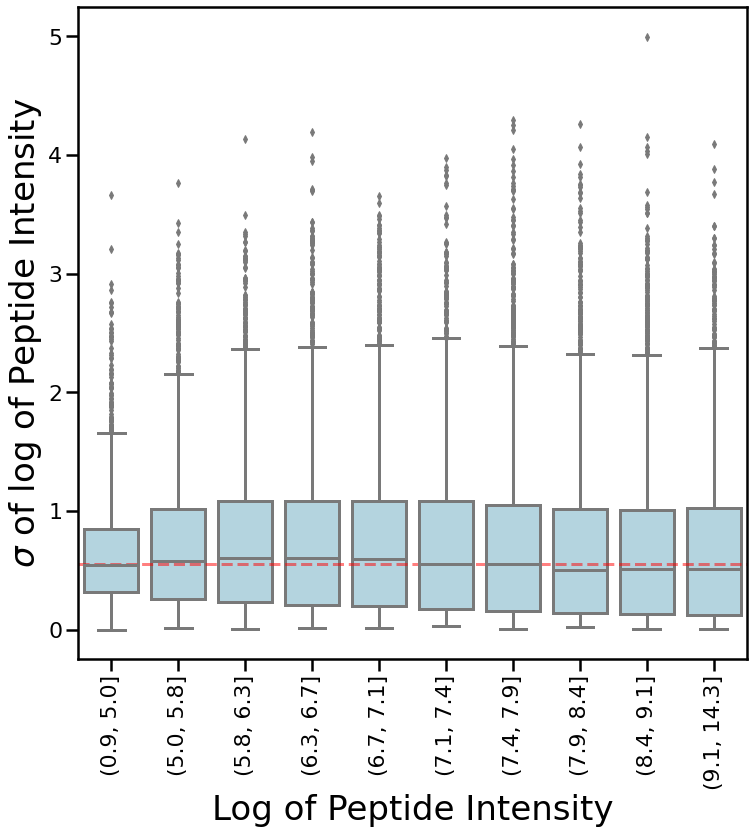
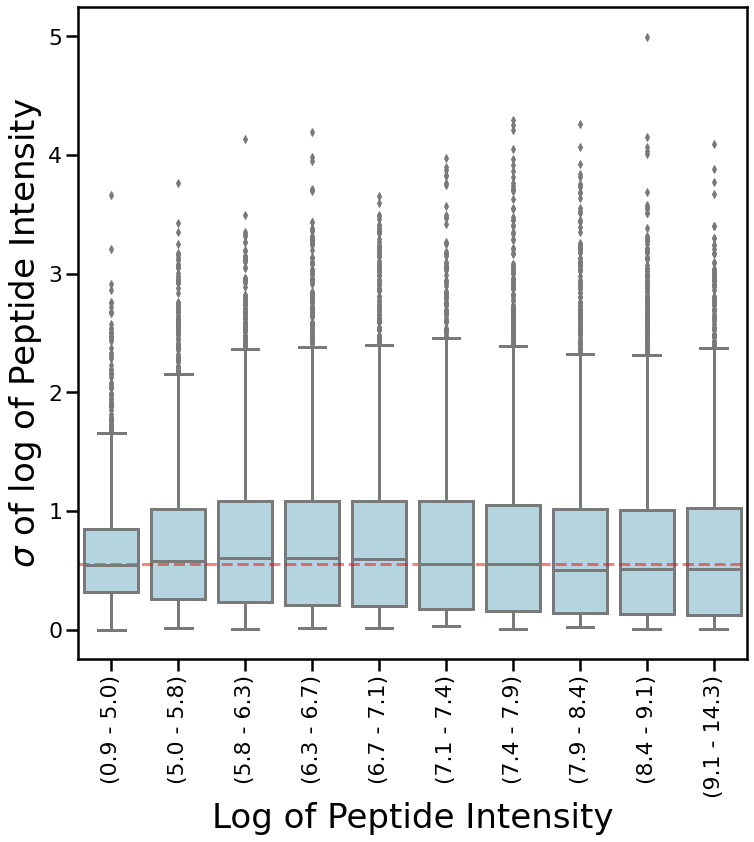
docs

diff --git a/doc/benchmark/supplement.tex b/doc/benchmark/supplement.tex
@@ -43,7 +43,24 @@
 \section*{Note S1: Supplementary figures and tables}
 \label{sec:fc-eval}
 
-\todo{Arrange Figures in the order they are referenced in text.}
+
+\begin{table}[hbt]
+\centering
+\begin{tabular}{llll}
+\hline
+        & Unfiltered & no\_shared & no\_shared\_IL\_equivalence \\ \hline
+All     & 31 055     & 30 456     & 30 452                      \\
+E. Coli & 4 391      & 4 306      & 4 306                       \\
+Human   & 20 614     & 20 302     & 20 299                      \\
+Yeast   & 6 050      & 5 848      & 5 847                       \\ \hline
+\end{tabular}
+
+  \caption{{\bf Protein count in the Uniprot FASTA protein database.} The database is a FASTA file with one protein sequence per gene for each species (UP000005640, UP000000625 and UP000002311. Acquired on 2021-06-16). The "no\_shared" filter is applied by splitting the protein sequences at amino acids "K" and "R" and keeping all the sequences with length $>$ 7 for each protein. We then mapped each sequence to all possible protein matchings and counted the how many proteins each split sequence was mapped to, and filtered so that each sequence only kept one protein match. Therefore, creating a database library with only one peptide sequence per protein. For the "no\_shared\_IL\_equivalence" all I are replaced by L before performing the filtering. \label{table:proteins_in_database}}
+
+\end{table}
+
+
+
 \begin{table}[h]
     \begin{tabular}{lllllll}
     \hline
@@ -72,23 +89,6 @@
 \end{table}
 
 
-
-
-\begin{figure}[hbt]
-    \centering
-    \begin{tabular}{lclc} 
-        A & \includegraphics[width=0.4\linewidth]{../../result/report_plots_pipeline/diff_HeLa_vs_nonHeLa_ID_ecoli_0.51.png} & 
-        D & \includegraphics[width=0.4\linewidth]{../../result/report_plots_pipeline/diff_HeLa_vs_nonHeLa_PS_ecoli_0.51.png} \\ 
-        B & \includegraphics[width=0.4\linewidth]{../../result/report_plots_pipeline/diff_HeLa_vs_nonHeLa_ID_yeast_0.51.png} & 
-        E & \includegraphics[width=0.4\linewidth]{../../result/report_plots_pipeline/diff_HeLa_vs_nonHeLa_PS_yeast_0.51.png} \\
-        C & \includegraphics[width=0.45\linewidth]{../../result/report_plots_pipeline/diff_HeLa_vs_nonHeLa_ID_all_0.51.png} & 
-        F & \includegraphics[width=0.45\linewidth]{../../result/report_plots_pipeline/diff_HeLa_vs_nonHeLa_PS_yeast_0.51.png} \\ 
-
-    \end{tabular}
-    \caption{{\bf The compared methods ability to differentiate differentially abundant proteins.} We plotted the number of reported differentially abundant  {\em E. Coli} and Yeast proteins as a function of number of proteins from the HeLa background when sorting according to significance for (A) ID pipeline and (B) PS pipeline. For the test we selected a fold-change evaluation of 0.51 for Triqler and fold-change treshold of 0.51 for Top3, MSstats and MSqRob2. All methods have an protein-level FDR threshold of 0.01. \label{fig:ability_to_differentiate_differentially_abundant_specie_vs_hela}}
-\end{figure}
-
-
 \begin{figure}[hbt]
     \centering
     \centering
@@ -97,33 +97,16 @@
         B & \includegraphics[width=0.4\linewidth]{../../result/report_plots_pipeline/quantile_bins_PS_median.png} \\
     \end{tabular}
   \caption{{\bf Standard deviation of peptide abundance as a function of mean abundance in DIA experiments.} We performed quantile binning with 10 bins using pandas qcut function and plotted the standard deviation across samples as a function of the mean of every peptide intensity in the TripleTOF6600 section of the LFQ Bench set. The bins are constructed so that each bin contain an equal amount of data points and the unequal bin sizes are an effect of the quantile binning procedure. The x-axis value shows the bin ranges. We used a log-log scale for abundances derived by the (A) ID pipeline and (B) PS pipeline. (A) show a slight increase in peptide intensity standard deviation as we increase the mean peptide intensity. In (B) we observe a nearly uniform offset in standard deviation across the intensity scale, demonstrating that (B) holds the Triqler assumption $\log(\sigma) \approx \log(\mu) + \log(k)$ and hence   $\sigma \approx \mu k$ very well. While (A) does not hold the assumption as well, Triqler is still used to analyse this data.  \label{fig:uniform_offset_in_standard_deviation_boxplot}}
-  \todo[inline]{Replace intervall signs with a single hyphen for x-tick markers.}
+
  \end{figure}
-
-
-\begin{table}[hbt]
-\centering
-\begin{tabular}{llll}
-\hline
-        & Unfiltered & no\_shared & no\_shared\_IL\_equivalence \\ \hline
-All     & 31 055     & 30 456     & 30 452                      \\
-E. Coli & 4 391      & 4 306      & 4 306                       \\
-Human   & 20 614     & 20 302     & 20 299                      \\
-Yeast   & 6 050      & 5 848      & 5 847                       \\ \hline
-\end{tabular}
-
-  \caption{{\bf Protein count in the Uniprot FASTA protein database.} The database is a FASTA file with one protein sequence per gene for each species (UP000005640, UP000000625 and UP000002311. Acquired on 2021-06-16). The "no\_shared" filter is applied by splitting the protein sequences at amino acids "K" and "R" and keeping all the sequences with length $>$ 7 for each protein. We then mapped each sequence to all possible protein matchings and counted the how many proteins each split sequence was mapped to, and filtered so that each sequence only kept one protein match. Therefore, creating a database library with only one peptide sequence per protein. For the "no\_shared\_IL\_equivalence" all I are replaced by L before performing the filtering. \label{table:proteins_in_database}}
-
-\end{table}
-
-
+ 
 
 \begin{figure}[hbt]
     \centering
     \centering
     \begin{tabular}{lclc} 
-        A \includegraphics[width=0.5\linewidth]{../../result/report_plots_pipeline/fraction_missing_values_ID.png} & &%\includegraphics[width=0.3\linewidth]{} & 
-        B \includegraphics[width=0.5\linewidth]{../../result/report_plots_pipeline/fraction_missing_values_PS.png} & \\%\includegraphics[width=0.3\linewidth]{} \\ 
+        A & \includegraphics[width=0.80\linewidth]{../../result/report_plots_pipeline/fraction_missing_values_ID.png} \\ %\includegraphics[width=0.3\linewidth]{} & 
+        B & \includegraphics[width=0.80\linewidth]{../../result/report_plots_pipeline/fraction_missing_values_PS.png} \\%\includegraphics[width=0.3\linewidth]{} \\ 
     \end{tabular}
     \todo[inline]{Harmonize fort sizes.}
     \caption{{\bf Comparison of actual missing values against fit to the censored normal distribution used in triqler.} We imputed the missing values as the mean of sample peptide intensities and used these imputed values to approximate the missingness for a given intensity. We binned the intensities to an arbitrary small range and plotted the fraction os missing values for each intensity range. The curve\_fit function from scipy.optimize was used to fit the values against the mentioned censored normal distribution for (A) ID pipeline  and (B) PS pipeline. \label{fig:fraction_missing_values}}
@@ -131,18 +114,16 @@ Yeast   & 6 050      & 5 848      & 5 847                       \\ \hline
     \todo[inline]{increase fontsizes for x- and y-ticks for both plots.}
 \end{figure}
 
-
 \begin{figure}[hbt]
     \centering
-    \newcolumntype{V}{>{\centering\arraybackslash} m{.4\linewidth} }
-    \setlength{\tabcolsep}{0pt}
-
-    \includegraphics[width=\linewidth]{../../result/report_plots/gridplot_histogram.png} 
-
-
-    \caption{{\bf Comparison of reported fold change distributions.} We can see that the Triqler and Top3 log2(A/B) empirical distributions have apexes that are more centered toward the true lysate values, which are indicated by the dashed lines. The apexes for Triqler have higher protein count than MSqRob2, MSstats and Top3. This shows that there are more proteins closer to the true values identified by Triqler than the other methods. \label{fig:fc_histogram_supplement}}
-    \todo[inline]{Remove legend in all but one subplot.}
-    \todo[inline]{Harmonize font sizes.}
+    \centering
+    \begin{tabular}{lclc} 
+        A & \includegraphics[width=0.5\linewidth]{../../result/report_plots_pipeline/fc_peptide_count_ID_triqler.png} &
+        B & \includegraphics[width=0.5\linewidth]{../../result/report_plots_pipeline/fc_peptide_count_PS_triqler.png} \\
+    \end{tabular}
+    \caption{{\bf Proteins with a different Triqler-estimated abundance than expected are summarized by less peptides than ones that are well estimated.} We plotted the median number of peptides per protein for    
+  We binned the peptides into regions of 0.1 ranged bins of estimated fold change and plotted them median for all bins between [-2,3], and plotted the median number of peptides as a function of bin-centers of the fold change. (A) is the ID pipeline and (B) is the PS pipeline \label{fig:number_of_peptides_supplement}}
+  \todo[inline]{Capitals in beginning of y-label}
 \end{figure}
 
 \begin{figure}[hbt]
@@ -166,6 +147,33 @@ Yeast   & 6 050      & 5 848      & 5 847                       \\ \hline
     \todo[inline]{Why are the triqler x-values different than the Top3? They should be the same.}
 \end{figure}
 
+\begin{figure}[hbt]
+    \centering
+    \begin{tabular}{lclc} 
+        A & \includegraphics[width=0.4\linewidth]{../../result/report_plots_pipeline/diff_HeLa_vs_nonHeLa_ID_ecoli_0.51.png} & 
+        D & \includegraphics[width=0.4\linewidth]{../../result/report_plots_pipeline/diff_HeLa_vs_nonHeLa_PS_ecoli_0.51.png} \\ 
+        B & \includegraphics[width=0.4\linewidth]{../../result/report_plots_pipeline/diff_HeLa_vs_nonHeLa_ID_yeast_0.51.png} & 
+        E & \includegraphics[width=0.4\linewidth]{../../result/report_plots_pipeline/diff_HeLa_vs_nonHeLa_PS_yeast_0.51.png} \\
+        C & \includegraphics[width=0.45\linewidth]{../../result/report_plots_pipeline/diff_HeLa_vs_nonHeLa_ID_all_0.51.png} & 
+        F & \includegraphics[width=0.45\linewidth]{../../result/report_plots_pipeline/diff_HeLa_vs_nonHeLa_PS_yeast_0.51.png} \\ 
+
+    \end{tabular}
+    \caption{{\bf The compared methods ability to differentiate differentially abundant proteins.} We plotted the number of reported differentially abundant  {\em E. Coli} and Yeast proteins as a function of number of proteins from the HeLa background when sorting according to significance for (A) ID pipeline and (B) PS pipeline. For the test we selected a fold-change evaluation of 0.51 for Triqler and fold-change treshold of 0.51 for Top3, MSstats and MSqRob2. All methods have an protein-level FDR threshold of 0.01. \label{fig:ability_to_differentiate_differentially_abundant_specie_vs_hela}}
+\end{figure}
+
+
+\begin{figure}[hbt]
+    \centering
+    \newcolumntype{V}{>{\centering\arraybackslash} m{.4\linewidth} }
+    \setlength{\tabcolsep}{0pt}
+
+    \includegraphics[width=\linewidth]{../../result/report_plots/gridplot_histogram.png} 
+
+
+    \caption{{\bf Comparison of reported fold change distributions.} We can see that the Triqler and Top3 log2(A/B) empirical distributions have apexes that are more centered toward the true lysate values, which are indicated by the dashed lines. The apexes for Triqler have higher protein count than MSqRob2, MSstats and Top3. This shows that there are more proteins closer to the true values identified by Triqler than the other methods. \label{fig:fc_histogram_supplement}}
+    \todo[inline]{Remove legend in all but one subplot.}
+    \todo[inline]{Harmonize font sizes.}
+\end{figure}
 
 
 \begin{figure}[hbt]
@@ -181,22 +189,9 @@ Yeast   & 6 050      & 5 848      & 5 847                       \\ \hline
         \includegraphics[width=0.5\linewidth]{../../result/report_plots_pipeline/calibration_PS_0.51.png} \\
         D 
     \end{tabular}
-  \caption{{\bf Comparison of calibration of the compared summarization methods.} We plotted the fraction of reported differentially abundant HeLa proteins as a function of $q$~value for (A,B) ID pipeline and (C,D) PS pipeline. The non-Triqler  estimated proteins abundances were both (A,C) not subject for fold change thresholds and (B,D) subject of a 0.51 fold change threshold. \label{fig:frac_hela_vs_fdr}}
+  \caption{{\bf Comparison of calibration of the compared summarization methods.} We plotted the fraction of reported differentially abundant HeLa proteins as a function of $q$~value for (A,B) ID pipeline and (C,D) PS pipeline. The non-Triqler  estimated proteins abundances were both (A,C) not subject for fold change thresholds and (B,D) subject of a 0.51 fold change threshold. \label{fig:frac_hela_vs_fdr_supp}}
 \end{figure}
-
-
-\begin{figure}[hbt]
-    \centering
-    \centering
-    \begin{tabular}{lclc} 
-        A & \includegraphics[width=0.5\linewidth]{../../result/report_plots_pipeline/fc_peptide_count_ID_triqler.png} &
-        B & \includegraphics[width=0.5\linewidth]{../../result/report_plots_pipeline/fc_peptide_count_PS_triqler.png} \\
-    \end{tabular}
-    \caption{{\bf Proteins with a different Triqler-estimated abundance than expected are summarized by less peptides than ones that are well estimated.} We plotted the median number of peptides per protein for    
-  We binned the peptides into regions of 0.1 ranged bins of estimated fold change and plotted them median for all bins between [-2,3], and plotted the median number of peptides as a function of bin-centers of the fold change. (A) is the ID pipeline and (B) is the PS pipeline \label{fig:number_of_peptides_supplement}}
-  \todo[inline]{Capitals in beginning of y-label}
-\end{figure}
-
 
 
 \end{document}
+

diff --git a/doc/benchmark/benchmark.tex b/doc/benchmark/benchmark.tex
@@ -114,7 +114,7 @@ We implemented a short script that take the average of the 3 most abundant PSMs 
 
 \subsubsection*{MSstats}
 
-We installed MSstats version 3.18.5 using R/Bioconductor (available at \url{https://www.bioconductor.org/packages/release/bioc/html/MSstats.html}). MSstats use feature-level data, allowing for multiple PSM hits per peptide identification. We filtered so that every protein had at least 2 peptides and a maximum of 10 peptides, and we thresholded with a \texttt{m\_score} which corresponds to a peptide identification FDR lower than 0.01 for both ID and SL pipelines. In the PS pipeline, the data was filtered on the \texttt{Q.Value} columns from the DIA-NN output file. In the ID pipeline we computed an \texttt{m\_score} corresponding to an 1\% FDR and used this \texttt{m\_score} to filter the data. MSstats was run using the MSstats command \texttt{dataProcess}. The significance testing between conditions was performed using the MSstats function \texttt{groupComparison}.  
+We installed MSstats version 3.18.5 using R/Bioconductor (available at \url{https://www.bioconductor.org/packages/release/bioc/html/MSstats.html}). MSstats use feature-level data, allowing for multiple PSM hits per peptide identification. We filtered so that every protein had at least 2 peptides and a maximum of 10 peptides, and we thresholded with a \texttt{m\_score} which corresponds to a peptide identification FDR lower than 0.01 for both ID and PS pipelines. In the PS pipeline, the data was filtered on the \texttt{Q.Value} columns from the DIA-NN output file. In the ID pipeline we computed an \texttt{m\_score} corresponding to an 1\% FDR and used this \texttt{m\_score} to filter the data. MSstats was run using the MSstats command \texttt{dataProcess}. The significance testing between conditions was performed using the MSstats function \texttt{groupComparison}.  
 
 \subsubsection*{MSqRob2}
 %
@@ -153,7 +153,7 @@ Triqler is not meant as a tool to give point estimates of abundances, instead tr
 
 We applied Triqler, MSstats, MSqRob2, and Top3(see the Methods section) to the peptide abundances derived from the ID and PS workflows from the varying concentrations of {\em E. Coli} and yeast concentrations in a background of HeLa-cells of the LFQBench set. As a first overview of the results we made histograms of  Triqler's protein-level fold change MAPs as well as the compared methods estimated fold-changes (Figure \ref{fig:fc_histogram}). For the comparison removed the methods' fold change selection mechanisms.
 
-Triqler and Top3 appears to have less fold-change bias than MSstats and MSqRob2, that is, the apex of the distributions is centered more closely to the lysate mixture rates. MSstats and MSqRob2 have distribution apexes that for each species that are centered at lower fold changes than the true lysate mixture rates. Reprocessing the data with replaced labels led to the reversed result, i.e. the apxeses centered around values higher that the pipetted mixture rates for both MSstats and MSqRob2 (data not shown).  We also observe that the apex of the distributions has higher values for Triqler than the other methods. We also observe in Figure \ref{fig:fc_scatter} that the regression line goes towards the true fold-change values for Triqler, while it remains constantly postive for Top3, MSstats and MSqRob2. We also observe that Triqler has longer tails for the estimated yeast and {\em E. Coli} fold change distributions. These values are explained by proteins quantified with fewer peptides, i.e. less certain protein quantification. It appears as the proteins with correctly estimated foldchanges are identified by more peptides that the one off from their expected fold change, as can be seen in in Figure S\ref{fig:number_of_peptides_supplement}, which show the number of peptides per protein for different Triqler estimated fold changes.
+Triqler and Top3 appears to have less fold-change bias than MSstats and MSqRob2, that is, the apex of the distributions is centered more closely to the lysate mixture rates. MSstats and MSqRob2 have distribution apexes that for each species that are centered at lower fold changes than the true lysate mixture rates. Reprocessing the data with replaced labels led to the reversed result, i.e. the apxeses centered around values higher that the pipetted mixture rates for both MSstats and MSqRob2 (data not shown).  We also observe that the apex of the distributions has higher values for Triqler than the other methods. We also observe in Figure \ref{fig:fc_scatter} that the regression line goes towards the true fold-change values for Triqler, while it remains constantly postive for Top3, MSstats and MSqRob2. We also observe that Triqler has longer tails for the estimated yeast and {\em E. Coli} fold change distributions. These values are explained by proteins quantified with fewer peptides, i.e. less certain protein quantification. It appears as the proteins with correctly estimated foldchanges are identified by more peptides that the one off from their expected fold change, as can be seen in in Figure \ref{fig:number_of_peptides_supplement}, which show the number of peptides per protein for different Triqler estimated fold changes.
 
 
 \begin{figure}[hbt]
@@ -201,7 +201,7 @@ As the first quantitative test of performance, we compared the methods' reported
 
 \subsubsection*{Comparison of statistical calibration}
 
-Further, we tested the statistical calibration of the summarization methods. We hence investigated the relationship between the fraction of wrongly reported differential abundant proteins (i.e. the fraction of HeLa proteins among all reported differential abundant proteins), and each inference method's estimated false discovery rate (See Figure \ref{fig:frac_hela_vs_fdr}). Since the FDR is calculated for a specific dataset, we recalculate the FDR:s using q-value method after thresholding, so that the FDRs are recalibrated to the smaller data set. We observe that when we don't apply any fold-change threshold the calibration for MSstats, MSqRob2 and Top3 are bad, but they get better with a fold-change threshold. Triqler does not require any fold-change thresholding. We observe that Triqler is closer to the diagonal line (perfect calibration line) than the other methods and does not have a polynomial calibration curve as MSstats and MSqRob2 after applying the fold-change threshold. 
+Further, we tested the statistical calibration of the summarization methods. We hence investigated the relationship between the fraction of wrongly reported differential abundant proteins (i.e. the fraction of HeLa proteins among all reported differential abundant proteins), and each inference method's estimated false discovery rate (See Figure \ref{fig:frac_hela_vs_fdr} and Figure \ref{fig:frac_hela_vs_fdr_supp}). Since the FDR is calculated for a specific dataset, we recalculate the FDR:s using q-value method after thresholding, so that the FDRs are recalibrated to the smaller data set. We observe that when we don't apply any fold-change threshold the calibration for MSstats, MSqRob2 and Top3 are bad, but they get better with a fold-change threshold. Triqler does not require any fold-change thresholding. We observe that Triqler is closer to the diagonal line (perfect calibration line) than the other methods and does not have a polynomial calibration curve as MSstats and MSqRob2 after applying the fold-change threshold. 
 
 %We observed that Triqler, Top3, and MSqRob2 give estimates that are close to the true fold-change level than MSstats. This is somewhat surprising given that both MSstats and MSqRob2 are using the Benjamini-Hochberger corrections which are generally found more conservative than $q$~value estimates.
 
